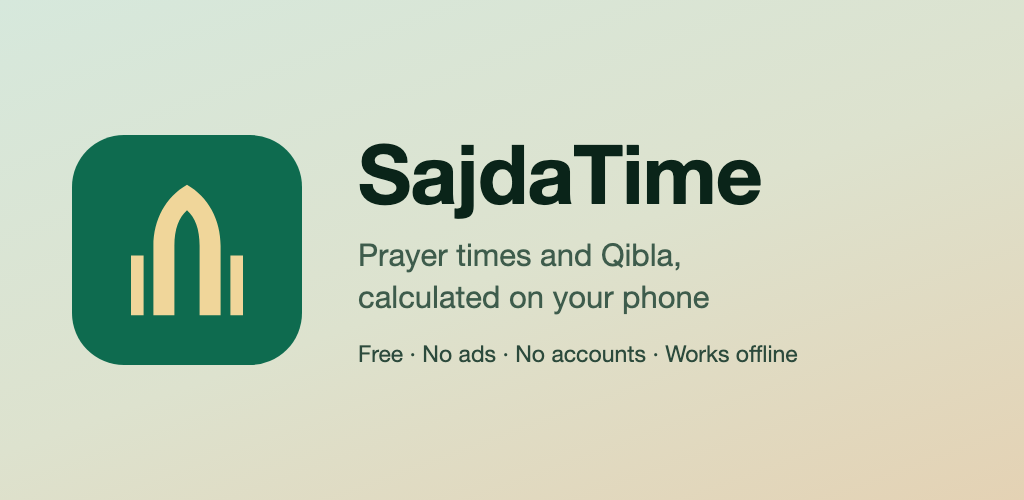
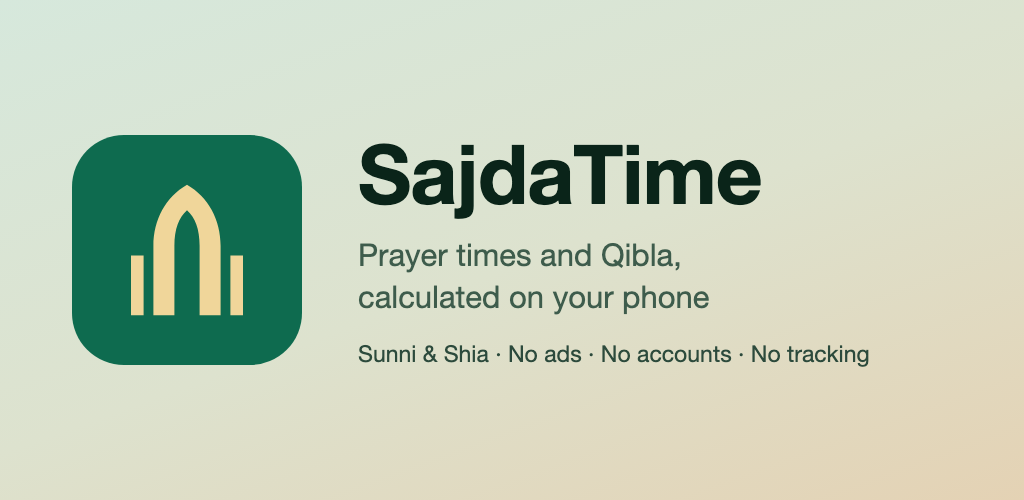
Store listing: drop the price keyword from both places it lived
Play's Console attached a promotability notice to the short description:

  "Your app may not be promoted on Google Play because your short description
   does not meet the following guidelines: Should not use keywords that
   indicate price or promotion"

triggered by the trailing "Free." It is advisory, not blocking — the listing
saves and publishes either way. What it costs is eligibility to be featured or
included in Play's curated collections, and for an app with no marketing, no
budget and no reviews yet, organic discovery is the entire distribution model.
It renders blue rather than red, which is exactly why it is easy to scroll
past.

The word was also the weakest in the sentence. Play prints "Free" beside the
Install button by itself and the full description gives it a section, so the
short description was spending its last five characters saying nothing new.

Those characters now read "for Sunni and Shia" — the one claim in this listing
a competitor cannot easily copy, and one a Shia user previously had no way to
learn from the store page at all, despite the Jafari Maghrib rule and the
per-madhab Asr rule being implemented. 79/80 either way.

Rejected, with reasons, in LISTING.md: the plain 73-char deletion (safe but
says nothing a dozen other apps do not); "Private by design" (marketing
abstraction, and CLAUDE.md requires copy that works for someone who has never
changed a setting and may not read English well — "no ads, no tracking" is
[…]

Changed region(s): [[0.3438, 0.69, 0.8438, 0.75]]

diff --git a/docs/HANDOVER.md b/docs/HANDOVER.md
@@ -1259,10 +1259,27 @@ Add the watch tile: long-press the watch face → **+** → scroll → "Next pra
     contact phone verified. Nothing on Google's side is outstanding. See
     `docs/RELEASING.md` for the account facts and the full checklist.
 
-    **The next actual step:** Play Console → Create app → paste
-    the fields from `docs/store/LISTING.md`, upload the assets from `docs/store/`, complete
-    the data safety form (the LISTING.md notes explain the one nuance about the geocoding
-    lookup), then Closed testing with 12 testers for 14 continuous days.
+    **The app now exists in the Console** (app ID `4975578035662443727`). Every **App
+    content** declaration is complete and green — privacy policy, app access, ads, content
+    rating, target audience, news, COVID-19, data safety, government, financial, health and
+    Advertising ID. The **Default store listing is saved as a draft** with the name, both
+    descriptions, the icon, the feature graphic and all five phone screenshots assigned.
+
+    Two Console behaviours cost time and are worth knowing:
+
+    - **Ticking an asset in the library does not assign it.** You must click **Add** at the
+      bottom-right of the side panel. Until you do, the field stays empty and the page
+      refuses to save with "Upload an icon" — while the asset you ticked sits visibly on
+      screen. Old uploads also stay in the library forever; only *assigned* assets publish,
+      so seeing superseded art in the picker is not a caching bug.
+    - **"Some languages have errors" is not about translation.** Only en-GB exists; it is a
+      roll-up of that one language's own missing-field errors.
+
+    **The next actual steps:** Store settings (category Lifestyle, tags, contact email
+    `aikstudies@gmail.com`), then the signing key — owner-only, `docs/RELEASING.md` Step 2,
+    and the one true blocker since both AABs on disk are unsigned — then Closed testing with
+    12 testers for 14 continuous days. The Wear OS screenshot slot only appears once the
+    Wear form factor is added, which happens at release time.
 
 ### Deliberate non-goals — do not "fix" these
 Ads, in-app purchases, accounts, analytics, crash reporting, fine location, background
@@ -1498,7 +1515,7 @@ script after editing the markdown.**
     bug class is more dangerous than none, because it removes the symptom that would have
     led someone to the rest of it. When you fix a staleness bug, go and find every other
     thing computed from the same stale input.
-23. **Generated art inherits stale colours silently, because it still looks right.** The
+20. **Generated art inherits stale colours silently, because it still looks right.** The
     launcher icon sat on `#14624B` — the primary from before the light palette was revised
     for contrast — and `tools/build-store-assets.sh` copies its colours, so the store icon
     and the feature graphic were both a revision behind the app they advertise. Nothing
@@ -1508,7 +1525,7 @@ script after editing the markdown.**
     had *already recorded the same drift* on `DarkInversePrimary` in a comment, which is
     the tell that this class of miss repeats. When a value is duplicated outside the type
     system, the duplicate is where the next stale value will be.
-24. **A store rule that is "roughly X" is usually exactly Y, and the laxer version is the
+21. **A store rule that is "roughly X" is usually exactly Y, and the laxer version is the
     one you remember.** These notes said Play's screenshot rule was "the long side may not
     exceed twice the short side". The Console's own text says **16:9 or 9:16**, and nothing
     between. Under the remembered rule the 1080×2400 emulator captures merely needed
@@ -1516,20 +1533,31 @@ script after editing the markdown.**
     resolution is invalid with them. The pillarboxing that resulted was a workaround for a
     constraint that was never the constraint. Read the requirement text on the actual form
     before designing around it, not the version in your head.
-25. **An emulator answers sensor questions with zero, and zero looks like an answer.** The
+22. **An emulator answers sensor questions with zero, and zero looks like an answer.** The
     Qibla store screenshot read *"You are facing 0°"* for an entire release cycle. It is
     not a state any real user reaches — it is the absence of a magnetometer, rendered as a
     perfectly plausible number. Feeding `adb emu sensor set magnetic-field` a real heading
     both fixes the picture and turns it into a free end-to-end check: facing 60°, Qibla
     118°, app says "Turn right 58°". If a screen is driven by a sensor the emulator does
     not have, assume the value is fabricated until you set it yourself.
-26. Keep the ponytail discipline: stdlib and platform first, no speculative abstractions,
+23. **A validator that reads your text cannot read your picture, and the same mistake is
+    usually in both.** Play flagged the short description for containing "Free." — a price
+    keyword, which costs eligibility to be *featured* without blocking publication, so it
+    appears as a blue advisory rather than a red error and is easy to scroll past. The same
+    word was sitting in the feature graphic's subtitle, where the Console said nothing at
+    all, because it validates form fields and the banner is a PNG. Fixing only the flagged
+    field would have left the offending word in the one asset Play uses when it *does*
+    promote an app. This is lesson 20 in a different medium: the automated check covers the
+    text path and is blind to the generated-image path. When a rule is enforced on one
+    representation of a value, go and find every other representation before calling it
+    fixed — and read the advisories, not only the errors.
+24. Keep the ponytail discipline: stdlib and platform first, no speculative abstractions,
     shortest working diff. Mark deliberate simplifications with a `ponytail:` comment.
-21. The owner is **not technical**. Explain in plain language, state what is verified versus
+25. The owner is **not technical**. Explain in plain language, state what is verified versus
     assumed, and never present something as done when it is untested. He also has **no
     access to physical devices** — if you cannot test it on an emulator, say so plainly
     rather than suggesting he go and try it himself.
-22. **When you commit, commit the understanding too** — see `CLAUDE.md` at the repo root.
+26. **When you commit, commit the understanding too** — see `CLAUDE.md` at the repo root.
     Code alone loses the reasoning, and the reasoning is what stops the next session
     undoing a decision it does not know was deliberate.
 

diff --git a/docs/store/LISTING.md b/docs/store/LISTING.md
@@ -18,10 +18,54 @@ SajdaTime: Prayer Times, Qibla
 ## Short description (max 80)
 
 ```
-Offline prayer times and Qibla compass. No ads, no accounts, no tracking. Free.
+Offline prayer times and Qibla compass for Sunni and Shia. No ads, no tracking.
 ```
 
 `79 / 80`
+
+### Do not put the word "Free" back
+
+This used to end `… no accounts, no tracking. Free.` and the Console answered with a
+promotability notice:
+
+> "Your app may not be promoted on Google Play because your short description does not meet
+> the following guidelines: • Should not use keywords that indicate price or promotion"
+
+That is **advisory, not blocking** — the listing saves and publishes either way. What it
+costs is eligibility to be featured or included in Play's curated collections. For an app
+with no marketing, no budget and no reviews yet, organic discovery *is* the distribution
+model, so the notice is worth more than the word.
+
+It was also the weakest word in the sentence. Play prints **Free** next to the Install
+button by itself, and the full description gives it a whole section, so the short
+description was buying nothing with its last five characters.
+
+**What replaced it, and why that and not something else.** The freed space went to
+*"for Sunni and Shia"*, because it is the only claim in this listing a competitor cannot
+easily copy. Most prayer apps treat Shia conventions as an afterthought or omit them; this
+one implements the Jafari Maghrib rule and the correct Asr rule per madhab, and a Shia user
+previously had no way to learn that from the store page at all.
+
+Rejected, and why:
+
+| Candidate | Why not |
+|---|---|
+| `… No ads, no accounts, no tracking.` (73) | Safe, but leaves seven characters unused and says nothing a dozen other apps do not |
+| `… for Sunni and Shia. Private by design.` (77) | "Private by design" is marketing abstraction. `CLAUDE.md` requires this app to work for someone who has never changed a setting and may not read English well; "no ads, no tracking" is concrete and survives translation, "private by design" does not |
+| Adding *Adhan* for search volume | The app plays a **user-chosen** sound, not a bundled recitation. It would be a keyword that over-promises |
+| Adding *Namaz* / *Salah* for search volume | Keyword stuffing in an English sentence, and Play flags that separately |
+
+`no accounts` was the item dropped from the trust triad — it is the least sharp of the
+three and is still in the feature graphic and the full description.
+
+**One judgment call worth knowing about.** Naming both traditions is inclusive and true, and
+it is a deliberate choice to say it on the front of the listing rather than only inside.
+If you would rather the store page not foreground the distinction, the 73-character variant
+above is a straight swap and nothing else in the listing depends on it.
+
+**If the notice does not clear**, the next suspect is `No ads` — test by pasting the
+73-character variant, then the same line without `No ads`. Google does not publish the
+keyword list, so this is narrowed by elimination rather than by reading a rule.
 
 ---
 
@@ -288,6 +332,25 @@ so the store art cannot drift from the app by hand.
 The feature graphic is now the app's own hero gradient (`LightHeroStart/Middle/End`) with
 `LightOnHero` ink, rather than a flat green slab invented for the listing. Worst contrast
 pair on it is 4.99:1.
+
+### The feature graphic carries no price words either
+
+Its subtitle used to read `Free · No ads · No accounts · Works offline`. The Console flagged
+**only the short description** for the price keyword, and said nothing about the banner —
+because it validates form fields and cannot read a PNG. Fixing the flagged field alone would
+have left the word in the one asset Play uses when it *does* promote an app.
+
+It now reads `Sunni & Shia · No ads · No accounts · No tracking`. `Works offline` went too,
+as redundant: the line directly above it already says "calculated on your phone".
+
+Measured after regenerating, not assumed — the longer line runs further into the warm end of
+the gradient than the old one did, so the background under it changed:
+
+| Check | Result |
+|---|---|
+| Subtitle `#2C4A3C` against the gradient beneath its full run | **6.90:1** — clears AA text (4.5:1) |
+| Line width | Ends at x≈870 of 1024, ~150px right margin, no wrap |
+| App icon background still `LightPrimary` | `#0E6B4F` ✅ |
 
 Run `./tools/build-store-assets.sh` to regenerate everything under `upload/`.
 
